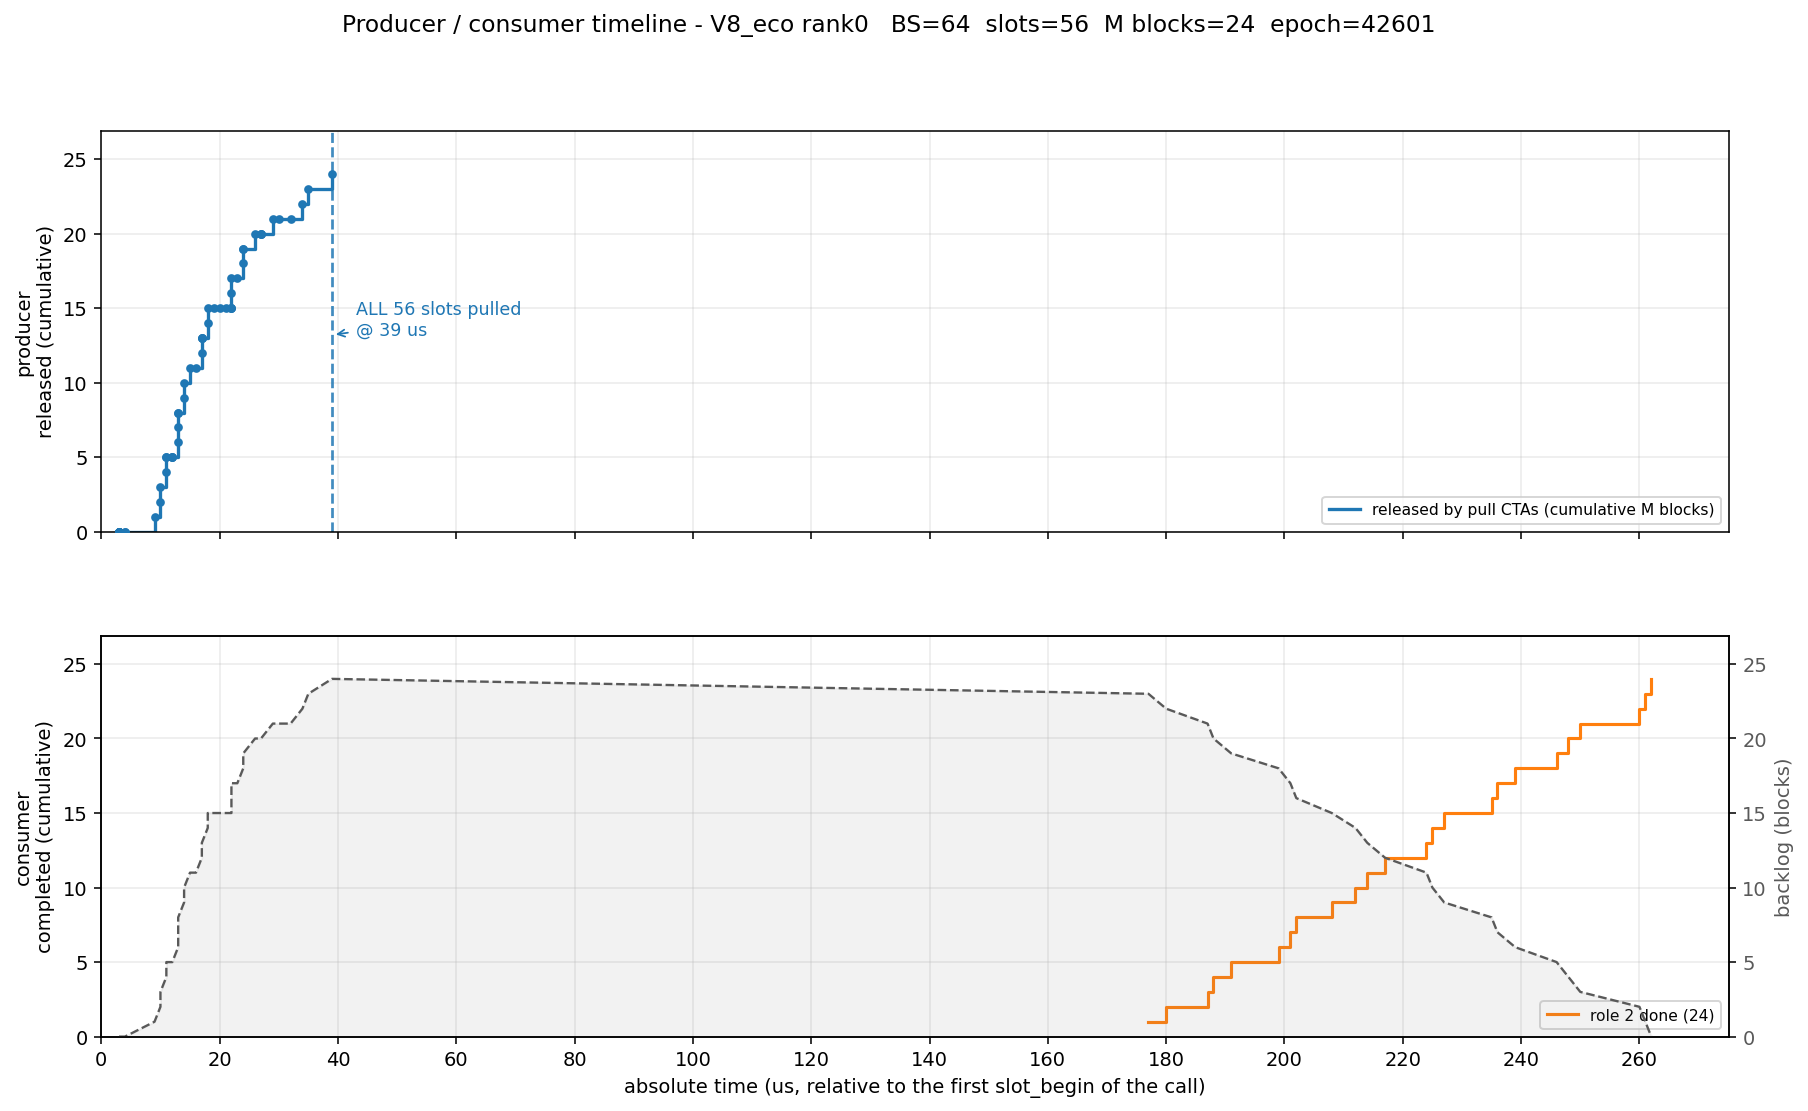
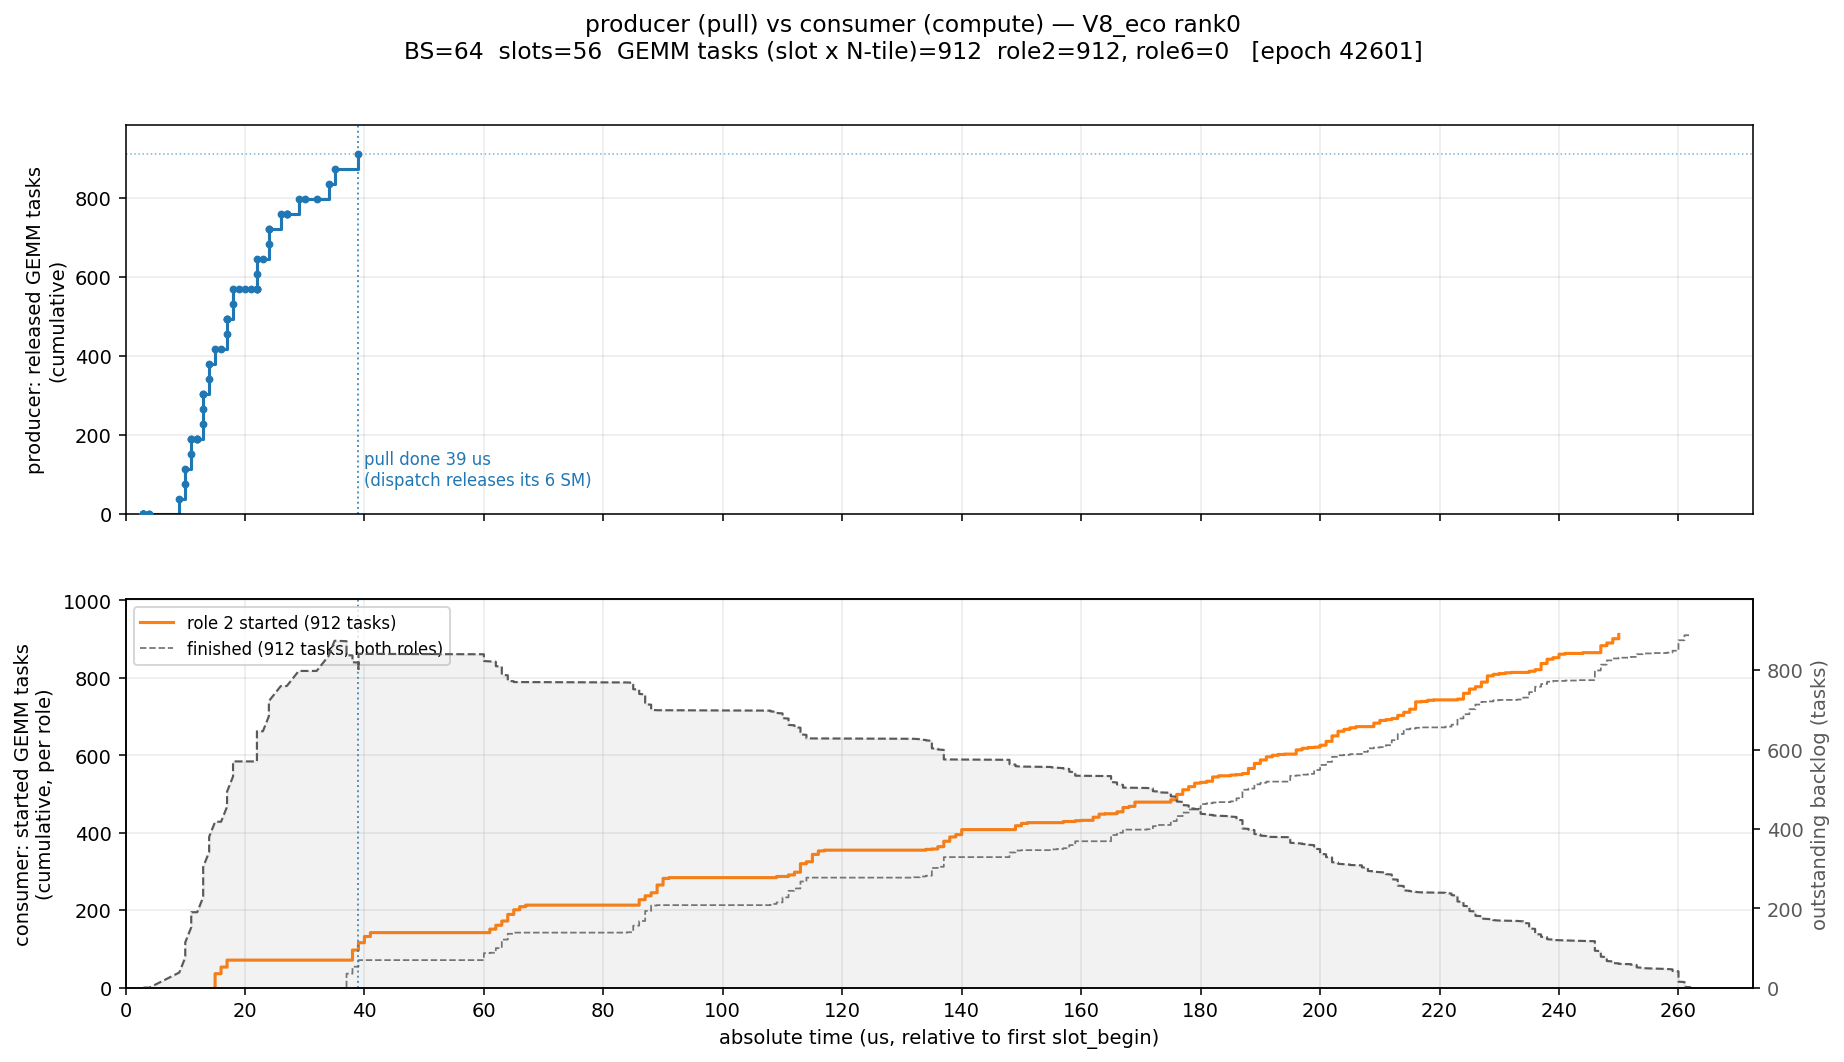
plots: consumer row is now GEMM tasks STARTED, not M blocks finished
The figure was wrong in a way that hid the whole story:

* the consumer row plotted M blocks COMPLETED, i.e. a block counted only after
  all ~38 of its N-tile rows had finished. That pushed its first point from
  17 us to 389 us at BS=256, so the pull/compute overlap -- the reason the
  timeline exists -- was invisible.
* 'role 6 joins' used the same completed-block record, so it read 169 us when
  role 6 actually started its first task at 126 us.

Both are back to the original  layout: producer = tasks
released per finished slot, consumer = tasks STARTED split by role 2/role 6
(plus a thin dashed line for completed), role 6 marked at its first started
task with the red band covering its active interval. The unit is now stated
explicitly (one task = one (slot, N-tile) block = one type-6/7 record).

Re-derived numbers: first consumer activity 11-20 us (was 133-479), role 6
joins +8/+9/+9/+9 us after pull done (was +95/+172/+225/+272).

diff --git a/scripts/plot_timeline_annot.py b/scripts/plot_timeline_annot.py
@@ -1,19 +1,14 @@
-"""Producer/consumer timeline with the annotations the README needs.
+"""Producer/consumer timeline — same layout as the earlier `plot_smreuse.py`.
 
-Row 1  producer: cumulative M blocks RELEASED by the pull CTAs.  A slot's
-       blocks become claimable when that slot's pull finishes (type-2 record).
-       A vertical dashed line marks "ALL slots pulled".
-Row 2  consumer: cumulative M blocks COMPLETED, split by who consumed them:
-         role 2 (the routed compute kernel)  -- orange
-         role 6 (the helper on the SMs dispatch vacates) -- red
-       A dotted red line marks the moment role 6 first completes a block
-       (only present in the SM-reuse arm).
+Row 1  producer: every finished slot adds that slot's M-block count; the point
+       is (slot_end time, cumulative released).
+       Blue dotted line = "ALL slots pulled" (dispatch releases its 6 SMs).
+Row 2  consumer: every finished M block adds 1, split by who ran it
+         role 2 (block id < 1000)  -- the compute partition      (orange)
+         role 6 (block id >= 1000) -- the SMs dispatch vacated   (red)
+       Red dashed line = the moment role 6 joins, red shaded band = the
+       interval role 6 is active.
 Right  outstanding backlog = released - completed.
-
-M-BLOCK IDENTITY.  A "task" record is emitted once per (expert, start,
-N-tile): one expert with B blocks and T tiles produces B*T rows.  A block is
-therefore a distinct (expert, start) PAIR and its completion time is the LAST
-row that pair emits (every tile must finish before the block is done).
 
 `fine_rows` layout (8 words): t_us, type, id, a0, a1, a2, epoch, _
   type 1 slot_begin : id=global slot, a0=local slot, a1=CTA, a2=ncopies
@@ -32,33 +27,24 @@ import matplotlib.pyplot as plt
 from matplotlib.ticker import MaxNLocator
 
 ROLE6_OFFSET = 1000
+PREFILL_SPAN_US = 2000      # a prefill layer runs ~6.8 ms; decode ~0.2 ms
 
 
 def _calls(rows):
-    """Group the fine rows into MoE calls (one epoch per layer call)."""
     by = defaultdict(list)
     for x in rows:
         by[x[6]].append(x)
     return by
 
 
-PREFILL_SPAN_US = 2000      # a prefill layer runs ~6.8 ms; decode ~0.2 ms
-
-
 def pick_call(rows):
     """Pick ONE complete DECODE call (a layer of one step).
 
-    A call is complete when every slot that began pulling also finished
-    (type-1 count == type-2 count) and it produced GEMM tasks.
-
-    Among the complete calls take the LATEST epoch.  Two reasons:
-
-      * the log now starts at the measured window, but rows recorded earlier
-        (prefill / warmup) stay in the buffer: their epochs are the smallest,
-        so "latest" is the measured window;
-      * prefill calls have exactly the same SHAPE (all slots pull, all M
-        blocks run) but take ~100x longer, so a size test cannot separate them
-        -- a span test can, and it is applied first.
+    Complete = every slot that began pulling also finished, and it produced
+    GEMM tasks.  Among those take the LATEST epoch: the log starts at the
+    measured window, but rows from prefill/warmup stay in the buffer with
+    smaller epochs.  Prefill calls have exactly the same SHAPE and ~100x the
+    span, so the span test runs first.
     """
     ok = []
     for ep, E in _calls(rows).items():
@@ -73,31 +59,34 @@ def pick_call(rows):
     if not ok:
         raise SystemExit('no complete call in fine_rows')
     ok.sort(key=lambda o: o[1])
-    span, ep, E = ok[-1]
-    return ep, E
+    return ok[-1][1], ok[-1][2]
 
 
 def build(E):
+    """Four curves, all in us relative to the first slot_begin.
+
+    CONSUMER ROW = "started" (type 6, the first instruction of the GEMM for
+    that task), NOT "finished" (type 7).  The point of the row is when the
+    compute CTAs begin consuming; using starts is what makes the consumer line
+    start a few microseconds into the call, well BEFORE the last slot is
+    pulled -- which is exactly the pull/compute overlap this figure exists to
+    show.  (`type 7` is kept as a thin dashed line so the gap between the two
+    is "claimed but still running".)
+
+    ROLE 6 "joins" = its first type-6 record, i.e. the first task it actually
+    starts.  With type 7 this over-reported by ~40 us at BS=256 (169 vs 126),
+    because a role-6 CTA has to finish its first task before it can finish.
+    """
     u = lambda t: t & 0xFFFFFFFF
     t0 = min(u(x[0]) for x in E if x[1] == 1)
-    # --- producer: one event per finished slot, weighted by that slot's blocks
-    pairs = {(x[3], x[4]) for x in E if x[1] == 6}          # (slot, start)
-    per_slot = Counter(slot for slot, _ in pairs)
+    # tasks a slot publishes = the tasks the consumer sees for that slot
+    per_slot = Counter(x[3] for x in E if x[1] == 6)
     prod = sorted((u(x[0]) - t0, x[3], per_slot.get(x[3], 0)) for x in E if x[1] == 2)
-    # --- consumer: a block is done when its LAST tile row lands
-    last = {}
-    for x in E:
-        if x[1] != 7:
-            continue
-        k = (x[3], x[4])
-        t = u(x[0]) - t0
-        prev = last.get(k)
-        if prev is None or t > prev[0]:
-            last[k] = (t, x[2])
-    done = sorted(last.values())
-    cons2 = [t for t, cta in done if cta < ROLE6_OFFSET]
-    cons6 = [t for t, cta in done if cta >= ROLE6_OFFSET]
-    return t0, per_slot, prod, cons2, cons6
+    beg = sorted((u(x[0]) - t0, x[2] < ROLE6_OFFSET) for x in E if x[1] == 6)
+    end = sorted(u(x[0]) - t0 for x in E if x[1] == 7)
+    c2 = [t for t, is2 in beg if is2]
+    c6 = [t for t, is2 in beg if not is2]
+    return prod, c2, c6, end, sum(per_slot.values())
 
 
 def plot(path, rank, out):
@@ -110,61 +99,49 @@ def plot(path, rank, out):
     if not rows:
         raise SystemExit(f'{path}: empty fine_rows')
     ep, E = pick_call(rows)
-    t0, per_slot, prod, cons2, cons6 = build(E)
-    total = sum(per_slot.values())
+    prod, c2, c6, done, total = build(E)
+    pull_done = prod[-1][0] if prod else 0
+    r6_first = c6[0] if c6 else None
     label = d.get('label', os.path.basename(path).replace('.json', ''))
     bs = d.get('seqs', '?')
-    pull_done = prod[-1][0] if prod else 0
 
-    fig, (a1, a2) = plt.subplots(2, 1, figsize=(15, 8.4), sharex=True,
-                                 gridspec_kw={'height_ratios': [1, 1], 'hspace': 0.26})
-    fig.suptitle(f'Producer / consumer timeline - {label} rank{rank}   '
-                 f'BS={bs}  slots={len(prod)}  M blocks={total}  epoch={ep}', fontsize=12)
+    fig, (a1, a2) = plt.subplots(2, 1, figsize=(15, 8), sharex=True,
+                                 gridspec_kw={'height_ratios': [1, 1], 'hspace': 0.22})
+    kind = ('SM-reuse: ' if c6 else '') + 'producer (pull) vs consumer (compute)'
+    fig.suptitle(f'{kind} — {label} rank{rank}\n'
+                 f'BS={bs}  slots={len(prod)}  GEMM tasks (slot x N-tile)={total}  '
+                 f'role2={len(c2)}, role6={len(c6)}   [epoch {ep}]',
+                 fontsize=12)
 
     # ---- row 1: producer ----
     pt, pv, c = [], [], 0
     for t, slot, n in prod:
         c += n
         pt.append(t); pv.append(c)
-    a1.step(pt, pv, where='post', color='tab:blue', lw=1.7,
-            label='released by pull CTAs (cumulative M blocks)')
-    if pt:
-        a1.scatter(pt, pv, s=12, color='tab:blue', zorder=3)
-        a1.axvline(pull_done, color='tab:blue', ls='--', lw=1.4, alpha=.85)
-        a1.annotate(f'ALL {len(prod)} slots pulled\n@ {pull_done} us',
-                    xy=(pull_done, total * .55),
-                    xytext=(pull_done + max(4, pull_done * .06), total * .55),
-                    fontsize=9, color='tab:blue',
-                    arrowprops=dict(arrowstyle='->', color='tab:blue', lw=.9))
-    a1.set_ylabel('producer\nreleased (cumulative)')
-    a1.set_ylim(0, max(total, 1) * 1.12)
+    a1.step(pt, pv, where='post', color='tab:blue', lw=1.6,
+            label='released (cumulative)')
+    a1.scatter(pt, pv, s=9, color='tab:blue', zorder=3)
+    a1.axhline(total, color='tab:blue', ls=':', lw=.8, alpha=.55)
+    a1.set_ylabel('producer: released GEMM tasks\n(cumulative)')
+    a1.set_ylim(0, max(total, 1) * 1.08)
     a1.grid(alpha=.25)
-    a1.legend(loc='lower right', fontsize=8)
 
-    # ---- row 2: consumers ----
-    if cons2:
-        a2.step(cons2, range(1, len(cons2) + 1), where='post',
-                color='tab:orange', lw=1.6, label=f'role 2 done ({len(cons2)})')
-    if cons6:
-        a2.step(cons6, range(1, len(cons6) + 1), where='post',
-                color='tab:red', lw=1.8, label=f'role 6 done ({len(cons6)})')
-        r6 = cons6[0]
-        a2.axvline(r6, color='tab:red', ls=':', lw=1.6, alpha=.9)
-        a2.annotate(f'role 6 joins @ {r6} us',
-                    xy=(r6, max(1, len(cons6)) * .5),
-                    xytext=(r6 + max(4, r6 * .03),
-                            max(1, len(cons6)) * .5 + total * .10),
-                    fontsize=9, color='tab:red',
-                    arrowprops=dict(arrowstyle='->', color='tab:red', lw=.9))
-    a2.set_ylabel('consumer\ncompleted (cumulative)')
-    a2.set_ylim(0, max(total, 1) * 1.12)
+    # ---- row 2: consumers split by role ----
+    a2.step(c2, range(1, len(c2) + 1), where='post', color='tab:orange', lw=1.6,
+            label=f'role 2 started ({len(c2)} tasks)')
+    if c6:
+        a2.step(c6, range(1, len(c6) + 1), where='post', color='tab:red', lw=1.8,
+                label=f'role 6 started ({len(c6)} tasks)')
+    if done:
+        a2.step(done, range(1, len(done) + 1), where='post', color='0.45',
+                lw=.9, ls='--', label=f'finished ({len(done)} tasks, both roles)')
+    a2.set_ylabel('consumer: started GEMM tasks\n(cumulative, per role)')
+    a2.set_ylim(0, max(max(len(c2), len(c6)), 1) * 1.10)
     a2.grid(alpha=.25)
-    a2.set_xlabel('absolute time (us, relative to the first slot_begin of the call)')
-    a2.legend(loc='lower right', fontsize=8)
+    a2.set_xlabel('absolute time (us, relative to first slot_begin)')
 
     # ---- backlog on the right axis ----
-    ev = sorted([(t, 1, n) for t, slot, n in prod] +
-                [(t, 0, 1) for t in cons2] + [(t, 0, 1) for t in cons6],
+    ev = sorted([(t, 1, n) for t, _, n in prod] + [(t, 0, 1) for t in done],
                 key=lambda z: (z[0], z[1]))
     ts, back, R, C = [], [], 0, 0
     for t, kind, n in ev:
@@ -173,33 +150,52 @@ def plot(path, rank, out):
         else:
             C += 1
         ts.append(t); back.append(R - C)
-    if ts:
-        ax2 = a2.twinx()
-        ax2.plot(ts, back, color='0.35', lw=1.2, ls='--', label='outstanding backlog')
-        ax2.fill_between(ts, back, color='0.5', alpha=.10)
-        ax2.set_ylabel('backlog (blocks)', color='0.35')
-        ax2.tick_params(axis='y', labelcolor='0.35')
-        ax2.set_ylim(0, max(max(back), 1) * 1.12)
+    ax2 = a2.twinx()
+    ax2.plot(ts, back, color='0.35', lw=1.1, ls='--', label='outstanding backlog')
+    ax2.fill_between(ts, back, color='0.5', alpha=.10)
+    ax2.set_ylabel('outstanding backlog (tasks)', color='0.35')
+    ax2.tick_params(axis='y', labelcolor='0.35')
+    ax2.set_ylim(0, max(max(back), 1) * 1.12)
 
-    right = max([pull_done] + cons2 + cons6 + [1])
+    # ---- the two marks: pull done, role 6 joins ----
+    last = max(ts) if ts else 1
     for a in (a1, a2):
-        a.set_xlim(0, right * 1.05)
+        a.axvline(pull_done, color='tab:blue', ls=':', lw=1.0, alpha=.8)
+        if r6_first is not None:
+            a.axvline(r6_first, color='tab:red', ls='--', lw=1.4, alpha=.9)
+    if r6_first is not None:
+        a2.axvspan(pull_done, last, color='tab:red', alpha=.06)
+    a1.text(pull_done + max(1, pull_done * .02), total * .08,
+            f'pull done {pull_done} us\n(dispatch releases its 6 SM)',
+            fontsize=8.5, color='tab:blue')
+    if r6_first is not None:
+        a1.text(r6_first + max(1, r6_first * .02), total * .42,
+                f'>>> role 6 joins at {r6_first} us\n'
+                f'     ({r6_first - pull_done:+d} us vs pull done)',
+                fontsize=9, color='tab:red', fontweight='bold')
+    a2.legend(loc='upper left', fontsize=8.5)
+
+    for a in (a1, a2):
+        a.set_xlim(0, max(last, pull_done, 1) * 1.04)
         a.xaxis.set_major_locator(MaxNLocator(nbins=18))
 
     plt.savefig(out, dpi=140, bbox_inches='tight')
     plt.close(fig)
-    # fraction of the call during which released > completed: if this is ~all
-    # of it, compute never starves and pull is not the bottleneck.
-    backlog_pos = sum(back[i] > 0 and (ts[i + 1] - ts[i]) or 0
-                      for i in range(len(ts) - 1)) if len(ts) > 1 else 0
+
+    pos = sum((back[i] > 0) * (ts[i + 1] - ts[i]) for i in range(len(ts) - 1)) if len(ts) > 1 else 0
     span = (ts[-1] - ts[0]) if len(ts) > 1 else 1
-    return dict(label=label, epoch=ep, slots=len(prod), total_mblocks=total,
+    return dict(label=label, epoch=ep, slots=len(prod), mblocks=total,
+                total_mblocks=total, plot_unit='tasks (slot x N-tile)',
+                # A decode layer pulls in ~20-300 us; anything near a
+                # millisecond means the plot fell back to a PREFILL call, which
+                # would be a silent, 100x-wrong figure. Flag it loudly.
+                suspect=bool(pull_done and pull_done > 600),
                 pull_done_us=pull_done,
-                role6_first_us=(cons6[0] if cons6 else None),
-                role2_blocks=len(cons2), role6_blocks=len(cons6),
-                cons_end_us=(max(ts) if ts else 0),
-                cons_first_us=(min(cons2 + cons6) if (cons2 or cons6) else None),
-                backlog_pos_pct=round(100.0 * backlog_pos / max(span, 1), 1))
+                role6_first_us=r6_first,
+                role2_blocks=len(c2), role6_blocks=len(c6),
+                cons_first_us=(min(c2 + c6) if (c2 or c6) else None),
+                cons_end_us=last,
+                backlog_pos_pct=round(100.0 * pos / max(span, 1), 1))
 
 
 if __name__ == '__main__':

diff --git a/scripts/gen_20_plots.py b/scripts/gen_20_plots.py
@@ -48,9 +48,9 @@ def main():
                   + ('   <<< SUSPECT (prefill-scale pull)' if info['suspect'] else ''))
     with open(os.path.join(OUT, 'annotations.md'), 'w') as f:
         f.write('# Timeline annotations (rank 0, one measured layer)\n\n')
-        f.write('| BS | arm | slots | M blocks | all slots pulled (us) | '
-                'role 6 joins (us) | role 2 blocks | role 6 blocks | '
-                'first consumer block (us) | last block done (us) | backlog>0 |\n')
+        f.write('| BS | arm | slots | GEMM tasks | all slots pulled (us) | '
+                'role 6 joins (us) | role 2 tasks | role 6 tasks | '
+                'first task start (us) | last task done (us) | backlog>0 |\n')
         f.write('|---:|---|---:|---:|---:|---:|---:|---:|---:|---:|---:|\n')
         for r in rows:
             f.write(f"| {r['bs']} | {r['arm']} | {r['slots']} | {r['total_mblocks']} | "

diff --git a/docs/plots/ir20/annotations.md b/docs/plots/ir20/annotations.md
@@ -1,24 +1,24 @@
 # Timeline annotations (rank 0, one measured layer)
 
-| BS | arm | slots | M blocks | all slots pulled (us) | role 6 joins (us) | role 2 blocks | role 6 blocks |
-|---:|---|---:|---:|---:|---:|---:|---:|
-| 32 | vanilla | 48 | 19 | 27 | — | 19 | 0 |
-| 32 | random | 56 | 19 | 27 | — | 19 | 0 |
-| 32 | rr | 56 | 21 | 29 | — | 21 | 0 |
-| 32 | eco | 56 | 18 | 31 | — | 18 | 0 |
-| 32 | eco_smr | 56 | 18 | 33 | 128 | 14 | 4 |
-| 64 | vanilla | 48 | 29 | 36 | — | 29 | 0 |
-| 64 | random | 56 | 37 | 49 | — | 37 | 0 |
-| 64 | rr | 56 | 32 | 39 | — | 32 | 0 |
-| 64 | eco | 56 | 24 | 39 | — | 24 | 0 |
-| 64 | eco_smr | 56 | 29 | 49 | 221 | 27 | 2 |
-| 128 | vanilla | 48 | 38 | 53 | — | 38 | 0 |
-| 128 | random | 56 | 45 | 62 | — | 45 | 0 |
-| 128 | rr | 56 | 43 | 61 | — | 43 | 0 |
-| 128 | eco | 56 | 39 | 59 | — | 39 | 0 |
-| 128 | eco_smr | 56 | 40 | 62 | 287 | 27 | 13 |
-| 256 | vanilla | 48 | 51 | 102 | — | 51 | 0 |
-| 256 | random | 56 | 62 | 124 | — | 62 | 0 |
-| 256 | rr | 56 | 57 | 94 | — | 57 | 0 |
-| 256 | eco | 56 | 48 | 107 | — | 48 | 0 |
-| 256 | eco_smr | 56 | 48 | 117 | 389 | 47 | 1 |
+| BS | arm | slots | GEMM tasks | all slots pulled (us) | role 6 joins (us) | role 2 tasks | role 6 tasks | first task start (us) | last task done (us) | backlog>0 |
+|---:|---|---:|---:|---:|---:|---:|---:|---:|---:|---:|
+| 32 | vanilla | 48 | 722 | 27 | — | 722 | 0 | 12 | 199 | 97.4% |
+| 32 | random | 56 | 722 | 27 | — | 722 | 0 | 11 | 191 | 97.4% |
+| 32 | rr | 56 | 798 | 29 | — | 798 | 0 | 12 | 214 | 97.2% |
+| 32 | eco | 56 | 684 | 31 | — | 684 | 0 | 15 | 201 | 97.0% |
+| 32 | eco_smr | 56 | 684 | 33 | 41 | 636 | 48 | 14 | 189 | 96.8% |
+| 64 | vanilla | 48 | 1102 | 36 | — | 1102 | 0 | 13 | 306 | 98.0% |
+| 64 | random | 56 | 1406 | 49 | — | 1406 | 0 | 12 | 381 | 98.4% |
+| 64 | rr | 56 | 1216 | 39 | — | 1216 | 0 | 12 | 333 | 98.2% |
+| 64 | eco | 56 | 912 | 39 | — | 912 | 0 | 15 | 262 | 97.7% |
+| 64 | eco_smr | 56 | 1102 | 49 | 58 | 1024 | 78 | 15 | 295 | 97.9% |
+| 128 | vanilla | 48 | 1444 | 53 | — | 1444 | 0 | 15 | 447 | 98.2% |
+| 128 | random | 56 | 1710 | 62 | — | 1710 | 0 | 13 | 523 | 98.7% |
+| 128 | rr | 56 | 1634 | 61 | — | 1634 | 0 | 14 | 470 | 98.3% |
+| 128 | eco | 56 | 1482 | 59 | — | 1482 | 0 | 18 | 431 | 98.1% |
+| 128 | eco_smr | 56 | 1520 | 62 | 71 | 1415 | 105 | 18 | 455 | 98.2% |
+| 256 | vanilla | 48 | 1938 | 102 | — | 1938 | 0 | 16 | 688 | 100.0% |
+| 256 | random | 56 | 2356 | 124 | — | 2356 | 0 | 15 | 844 | 99.0% |
+| 256 | rr | 56 | 2166 | 94 | — | 2166 | 0 | 16 | 718 | 99.0% |
+| 256 | eco | 56 | 1824 | 107 | — | 1824 | 0 | 20 | 659 | 98.8% |
+| 256 | eco_smr | 56 | 1824 | 117 | 126 | 1698 | 126 | 17 | 643 | 98.7% |
